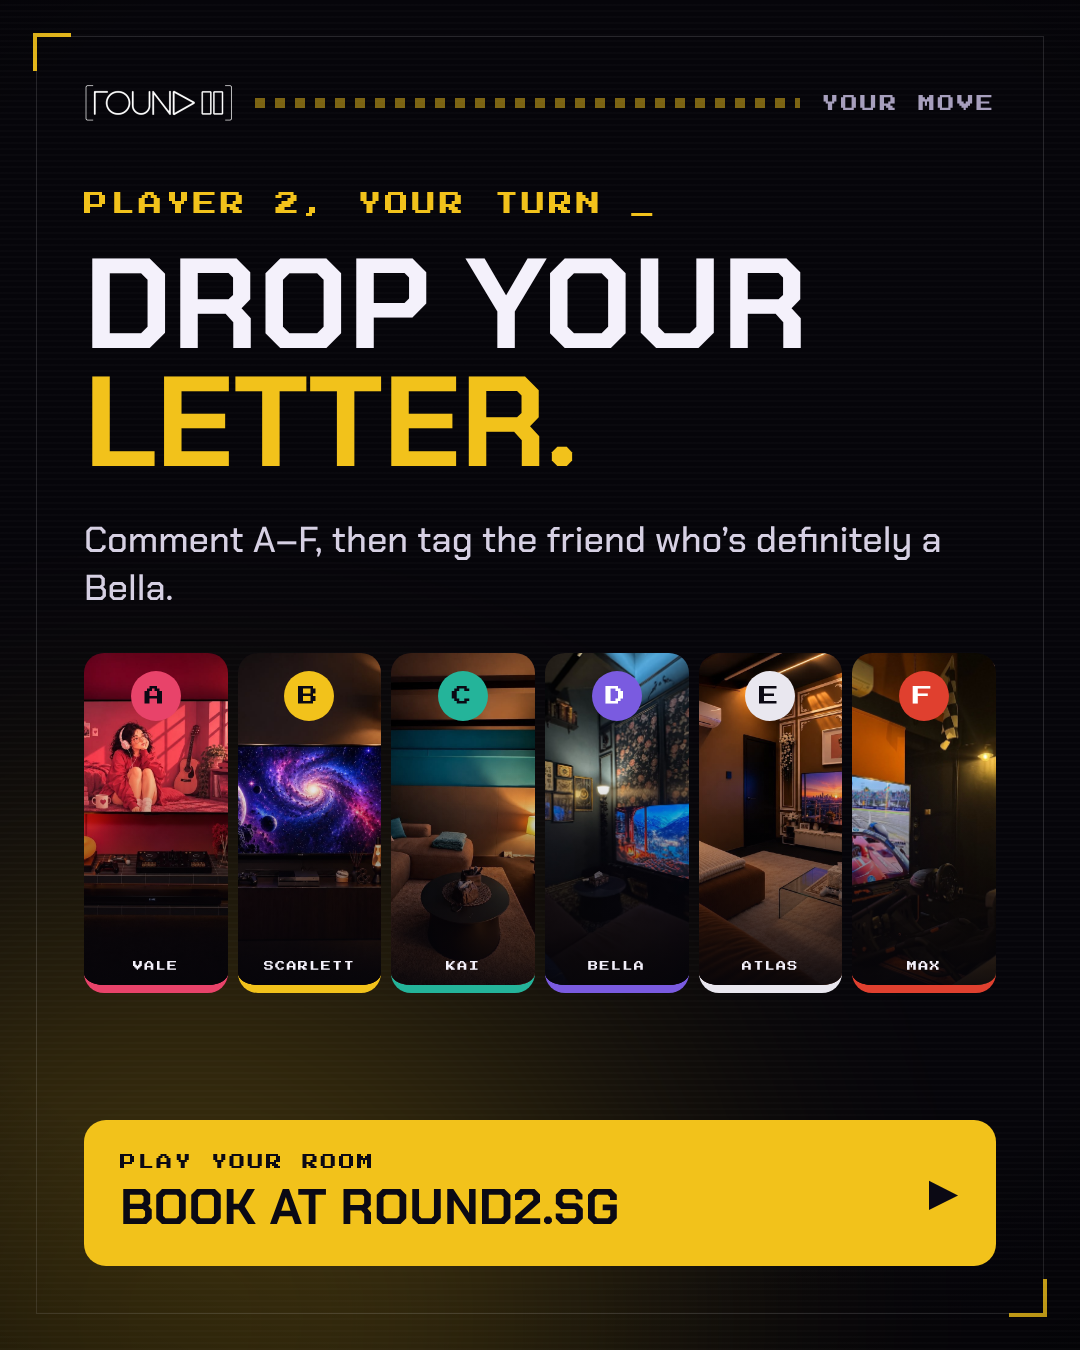
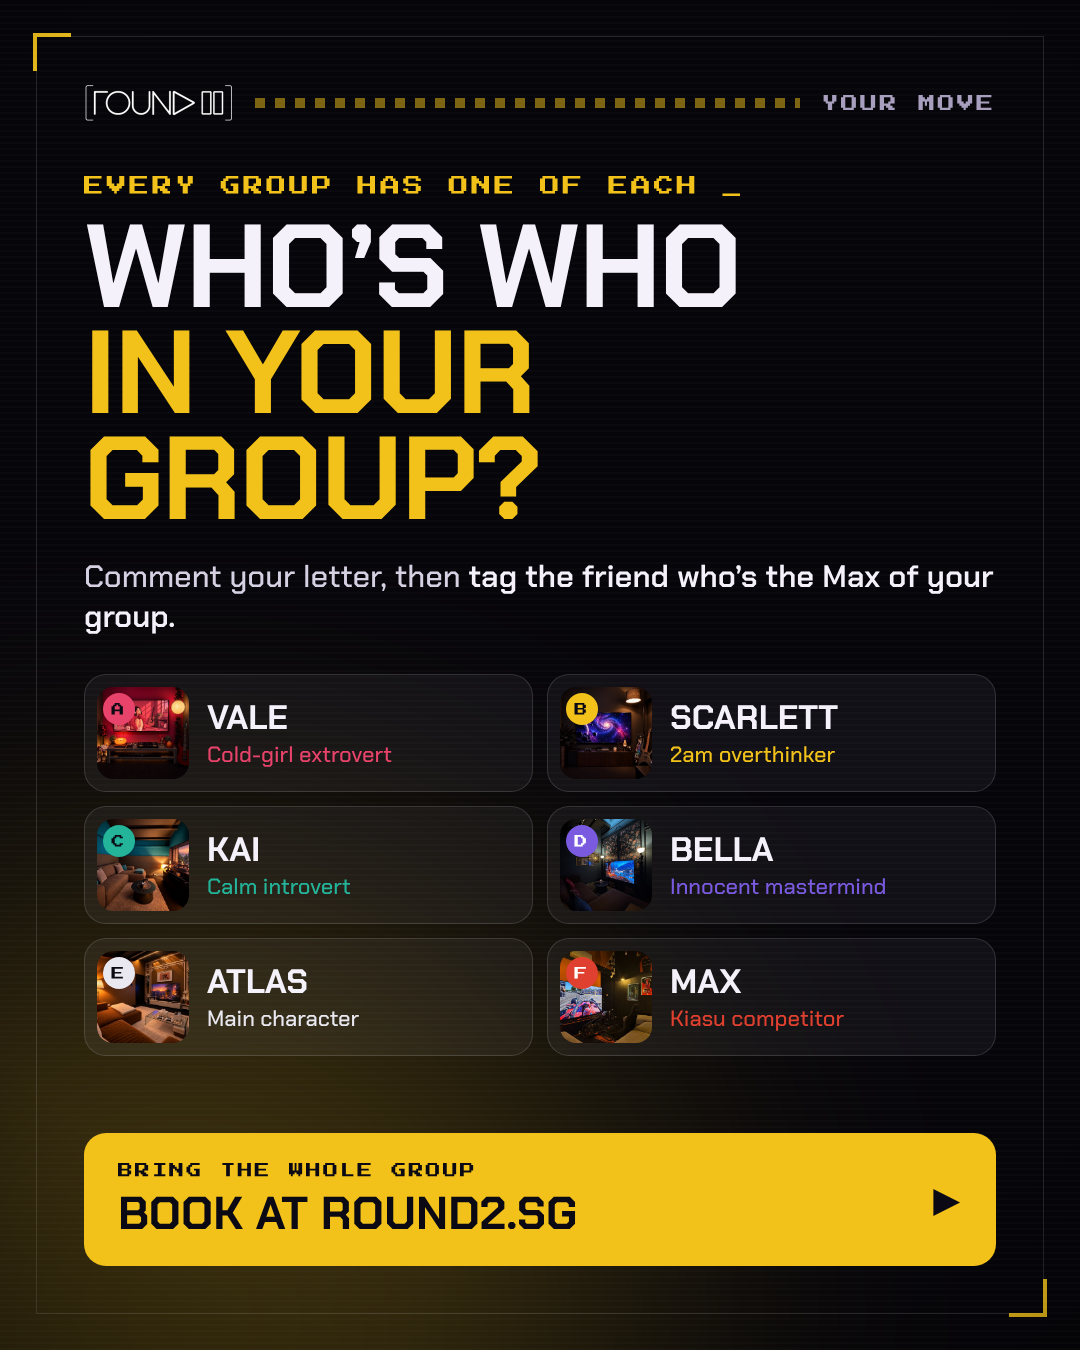
Room quiz: more personal cover ('Which one is you?') and group-roster end slide
Claude-Session: https://claude.ai/code/session_01PDkwSCLDYKchcH27nujJvW

Changed region(s): [[0.0611, 0.1244, 0.9472, 0.7778], [0.0917, 0.8089, 0.9167, 0.9333], [0.8556, 0.8711, 0.8861, 0.9022]]

diff --git a/marketing/ig-room-quiz/index.html b/marketing/ig-room-quiz/index.html
@@ -35,11 +35,12 @@ body.render .deck{padding:0;gap:0}
 body.render .blink{animation:none}
 
 /* cover – character select (soft) */
-.cv-t{margin:44px 0 0;font-weight:700;font-size:132px;line-height:.88;text-transform:uppercase;letter-spacing:-.015em}
+.cv-k{margin-top:46px;font-size:20px;color:var(--accent)}
+.cv-t{margin:18px 0 0;font-weight:700;font-size:128px;line-height:.88;text-transform:uppercase;letter-spacing:-.015em}
 .cv-t em{font-style:normal;color:var(--accent)}
-.cv-s{margin-top:26px;font-size:18px;color:var(--mute)}
-.cv-s b{font-weight:400;color:var(--accent)}
-.grid{margin-top:38px;flex:1;display:grid;grid-template-columns:repeat(3,1fr);grid-template-rows:1fr 1fr;gap:18px}
+.cv-s{margin-top:24px;font-size:31px;line-height:1.3;color:var(--soft)}
+.cv-s b{font-weight:600;color:var(--ink)}
+.grid{margin-top:34px;flex:1;display:grid;grid-template-columns:repeat(3,1fr);grid-template-rows:1fr 1fr;gap:18px}
 .tile{position:relative;overflow:hidden;background:#0b0914;border-radius:26px;box-shadow:0 18px 40px rgba(0,0,0,.45)}
 .tile img{position:absolute;inset:0;width:100%;height:100%;object-fit:cover}
 .tile::after{content:"";position:absolute;inset:0;
@@ -82,21 +83,21 @@ body.render .blink{animation:none}
 .stat .bar i{height:16px;background:rgba(244,241,251,.12)}
 .stat .bar i.on{background:var(--c);box-shadow:0 0 10px color-mix(in srgb,var(--c) 60%,transparent)}
 /* end */
-.en-k{margin-top:70px;font-size:24px;color:var(--accent)}
-.en-t{margin:30px 0 0;font-weight:700;font-size:128px;line-height:.92;text-transform:uppercase}
+.en-k{margin-top:54px;font-size:20px;color:var(--accent)}
+.en-t{margin:18px 0 0;font-weight:700;font-size:118px;line-height:.9;text-transform:uppercase;letter-spacing:-.015em}
 .en-t em{font-style:normal;color:var(--accent)}
-.en-s{margin-top:34px;font-size:36px;line-height:1.35;color:var(--soft)}
-.chips{margin-top:40px;display:flex;gap:10px}
-.chip{position:relative;flex:1;height:340px;overflow:hidden;border-bottom:8px solid var(--oc);background:#0b0914}
-.chip img{position:absolute;inset:0;width:100%;height:100%;object-fit:cover}
-.chip::after{content:"";position:absolute;inset:0;background:linear-gradient(180deg,rgba(6,5,10,0) 35%,rgba(6,5,10,.9))}
-.chip .k{position:absolute;left:50%;top:18px;transform:translateX(-50%);z-index:2;width:50px;height:50px;display:flex;align-items:center;justify-content:center;font-size:20px;background:var(--oc);color:var(--ok)}
-.chip .r{position:absolute;left:0;right:0;bottom:14px;z-index:2;text-align:center;font-size:10px;color:var(--ink)}
-.cta{margin-top:auto;display:flex;align-items:center;justify-content:space-between;padding:34px 36px;background:var(--accent);color:#0b0914}
-.cta .a{font-weight:700;font-size:50px;text-transform:uppercase;line-height:1}
-.cta .b{font-size:16px}
-.foot{margin-top:26px;display:flex;justify-content:space-between;font-size:15px;color:var(--mute)}
-
+.en-s{margin-top:24px;font-size:31px;line-height:1.32;color:var(--soft)}
+.en-s b{font-weight:600;color:var(--ink)}
+.roster{margin-top:36px;display:grid;grid-template-columns:1fr 1fr;gap:14px}
+.mate{display:flex;align-items:center;gap:18px;padding:12px;border-radius:22px;background:rgba(244,241,251,.05);border:1px solid var(--line)}
+.mate .ph{position:relative;width:92px;height:92px;flex:none;border-radius:16px;overflow:hidden;background:#0b0914}
+.mate .ph img{width:100%;height:100%;object-fit:cover;display:block}
+.mate .ph .k{position:absolute;left:6px;top:6px;width:32px;height:32px;border-radius:50%;display:flex;align-items:center;justify-content:center;font-size:13px;background:var(--oc);color:var(--ok)}
+.mate .nm2{font-weight:700;font-size:34px;line-height:1;text-transform:uppercase;color:var(--ink)}
+.mate .ty{margin-top:8px;font-size:22px;line-height:1.15;color:var(--oc)}
+.cta{margin-top:auto;display:flex;align-items:center;justify-content:space-between;padding:30px 34px;background:var(--accent);color:#0b0914;border-radius:22px}
+.cta .a{font-weight:700;font-size:46px;text-transform:uppercase;line-height:1}
+.cta .b{font-size:15px}
 /* soft corners to match the cover */
 .chip{border-radius:20px;overflow:hidden}
 .chip .k{border-radius:50%}
@@ -113,22 +114,22 @@ body.render .blink{animation:none}
 /* ============================ EDIT HERE ============================ */
 // One option per room. Rooms, colours and specs come from the live site. Kaeden is left out while it's under renovation.
 const QUIZ = [
-  { k:'A', room:'Vale',        night:'Looks fierce, actually super friendly',      type:'The cold-girl extrovert',
+  { k:'A', room:'Vale',        night:'Looks fierce, but chats with everyone',      type:'The cold-girl extrovert', short:'Cold-girl extrovert',
     traits:['Looks unapproachable, chats with every Grab driver','Keeps sending you random reels','Cries at Pixar movies, then denies it'],
     stats:[['Social',9],['Drama',8],['Shy',2]], sprite:'bauhaus' },
-  { k:'B', room:'Scarlett',    night:'Still awake at 2am, overthinking one text',   type:'The 2am overthinker',
+  { k:'B', room:'Scarlett',    night:'Still awake at 2am, overthinking a text',   type:'The 2am overthinker', short:'2am overthinker',
     traits:['Replies “ok”, then overthinks for 3 hours','Supper at 1am, deep talks at 3am','Sends a Spotify link instead of saying how she feels'],
     stats:[['Night owl',10],['Overthinking',9],['Supper cravings',8]], sprite:'moon' },
-  { k:'C', room:'Kai',         night:'Weekend plan: stay home and recharge',        type:'The calm introvert',
+  { k:'C', room:'Kai',         night:'Says “can” to plans, secretly wants to stay home',        type:'The calm introvert', short:'Calm introvert',
     traits:['Replies “can” to everything, and means it','The whole group’s free therapist','Social battery dies after one dinner'],
     stats:[['Chill',10],['Patience',9],['Social battery',3]], sprite:'bonsai' },
-  { k:'D', room:'Bella',       night:'Looks innocent, actually the mastermind',     type:'The innocent-face mastermind',
+  { k:'D', room:'Bella',       night:'Looks innocent, planned the whole thing',     type:'The innocent-face mastermind', short:'Innocent mastermind',
     traits:['Plans the chaos, then acts surprised','Reads tarot “for fun”, takes it seriously','Rainy day plan: a book, kopi, no texts'],
     stats:[['Mischief',9],['Mystery',8],['Alibi',10]], sprite:'candle' },
-  { k:'E', room:'Atlas',       night:'Main character, even at the hawker centre',   type:'The main-character dreamer',
+  { k:'E', room:'Atlas',       night:'Main character, even at the hawker centre',   type:'The main-character dreamer', short:'Main character',
     traits:['Plans an overseas trip, never books','Takes 200 photos, posts none','Gets a crush after one conversation'],
     stats:[['Daydreaming',10],['Romance',9],['Posting',1]], sprite:'column' },
-  { k:'F', room:'Maximillion', night:'Can’t accept losing, even at Monopoly',      type:'The kiasu competitor',
+  { k:'F', room:'Maximillion', night:'Can’t lose, not even at Monopoly',      type:'The kiasu competitor', short:'Kiasu competitor',
     traits:['Plays Monopoly like his life depends on it','Says “one more round” at 3am','Loses, then asks for best of 3'],
     stats:[['Competitive',10],['Speed',9],['Losing well',1]], sprite:'flag' },
 ];
@@ -179,13 +180,13 @@ const topBar = t => `<div class="top px"><img src="${LOGO}" alt="Round2"><div cl
 
 function cover(){
   const tiles = QUIZ.map((q, i) => { const r = ROOMS[q.room];
-    return `<div class="tile${i===0?' on':''}" style="--oc:${r.c};--ok:${r.ink}">
+    return `<div class="tile" style="--oc:${r.c};--ok:${r.ink}">
       <img src="photos/${q.room.toLowerCase()}.jpg" alt="" onerror="this.remove()">
-      <span class="k px">${q.k}</span>${i===0?'<span class="p1 px blink">P1</span>':''}
-      <span class="q">${esc(q.night)}</span></div>`; }).join('');
+      <span class="k px">${q.k}</span><span class="q">${esc(q.night)}</span></div>`; }).join('');
   return frame('#F2C21B','#0b0914', `${topBar('Round2 quiz')}
-    <h1 class="cv-t">Which room<br><em>are you?</em></h1>
-    <div class="cv-s px"><b>Pick one</b> · then swipe to find out ▶</div>
+    <div class="cv-k px">Be honest <span class="blink">_</span></div>
+    <h1 class="cv-t">Which one<br><em>is you?</em></h1>
+    <div class="cv-s">Your friends already know. <b>Pick yours, then swipe ▶</b></div>
     <div class="grid">${tiles}</div>`, 'right:-380px;top:-300px');
 }
 function card(q, i){
@@ -201,15 +202,15 @@ function card(q, i){
     i % 2 ? 'right:-360px;bottom:-300px' : 'left:-360px;bottom:-300px', bg);
 }
 function end(){
-  const chips = QUIZ.map(q => { const r = ROOMS[q.room]; return `<div class="chip" style="--oc:${r.c};--ok:${r.ink}">
-    <img src="photos/${q.room.toLowerCase()}.jpg" alt="" onerror="this.remove()"><span class="k px">${q.k}</span>
-    <span class="r px">${esc(q.room === 'Maximillion' ? 'Max' : q.room)}</span></div>`; }).join('');
+  const roster = QUIZ.map(q => { const r = ROOMS[q.room]; return `<div class="mate" style="--oc:${r.c};--ok:${r.ink}">
+    <div class="ph"><img src="photos/${q.room.toLowerCase()}.jpg" alt="" onerror="this.remove()"><span class="k px">${q.k}</span></div>
+    <div><div class="nm2">${esc(q.room === 'Maximillion' ? 'Max' : q.room)}</div><div class="ty">${esc(q.short)}</div></div></div>`; }).join('');
   return frame('#F2C21B','#0b0914', `${topBar('Your move')}
-    <div class="en-k px">Player 2, your turn <span class="blink">_</span></div>
-    <h2 class="en-t">Drop your<br><em>letter.</em></h2>
-    <div class="en-s">Comment A–F, then tag the friend who’s definitely a Bella.</div>
-    <div class="chips">${chips}</div>
-    <div class="cta"><div><div class="b px">Play your room</div><div class="a" style="margin-top:12px">Book at round2.sg</div></div><div class="a">▶</div></div>`, 'left:-260px;bottom:-420px');
+    <div class="en-k px">Every group has one of each <span class="blink">_</span></div>
+    <h2 class="en-t">Who’s who<br><em>in your group?</em></h2>
+    <div class="en-s">Comment your letter, then <b>tag the friend who’s the Max of your group.</b></div>
+    <div class="roster">${roster}</div>
+    <div class="cta"><div><div class="b px">Bring the whole group</div><div class="a" style="margin-top:12px">Book at round2.sg</div></div><div class="a">▶</div></div>`, 'left:-260px;bottom:-420px');
 }
 document.getElementById('deck').innerHTML = [cover(), ...QUIZ.map(card), end()].join('');
 if (location.search.includes('render')) document.body.classList.add('render');
